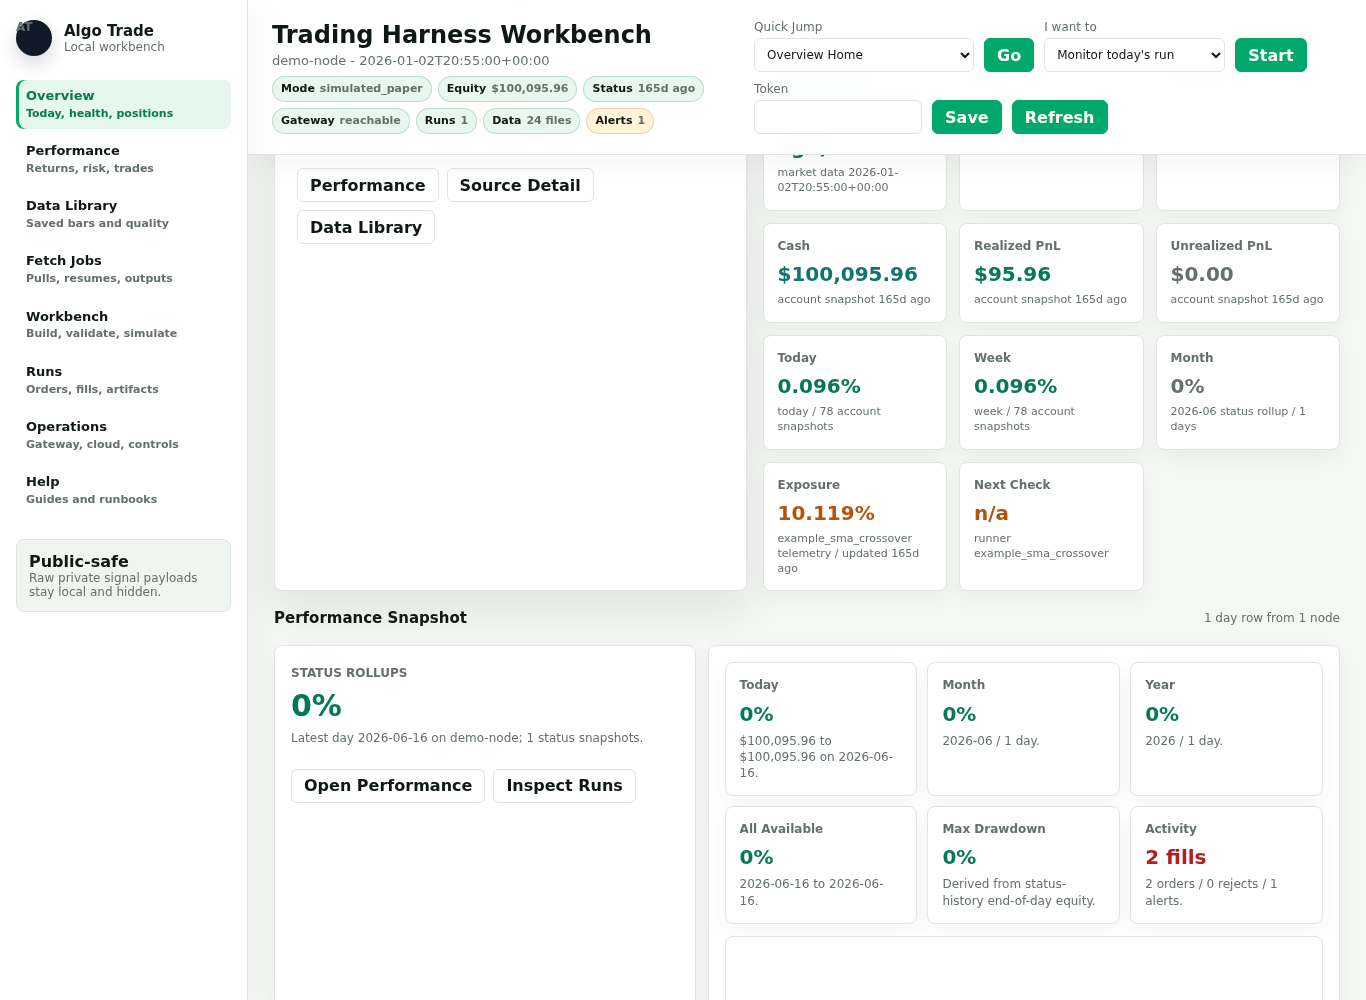
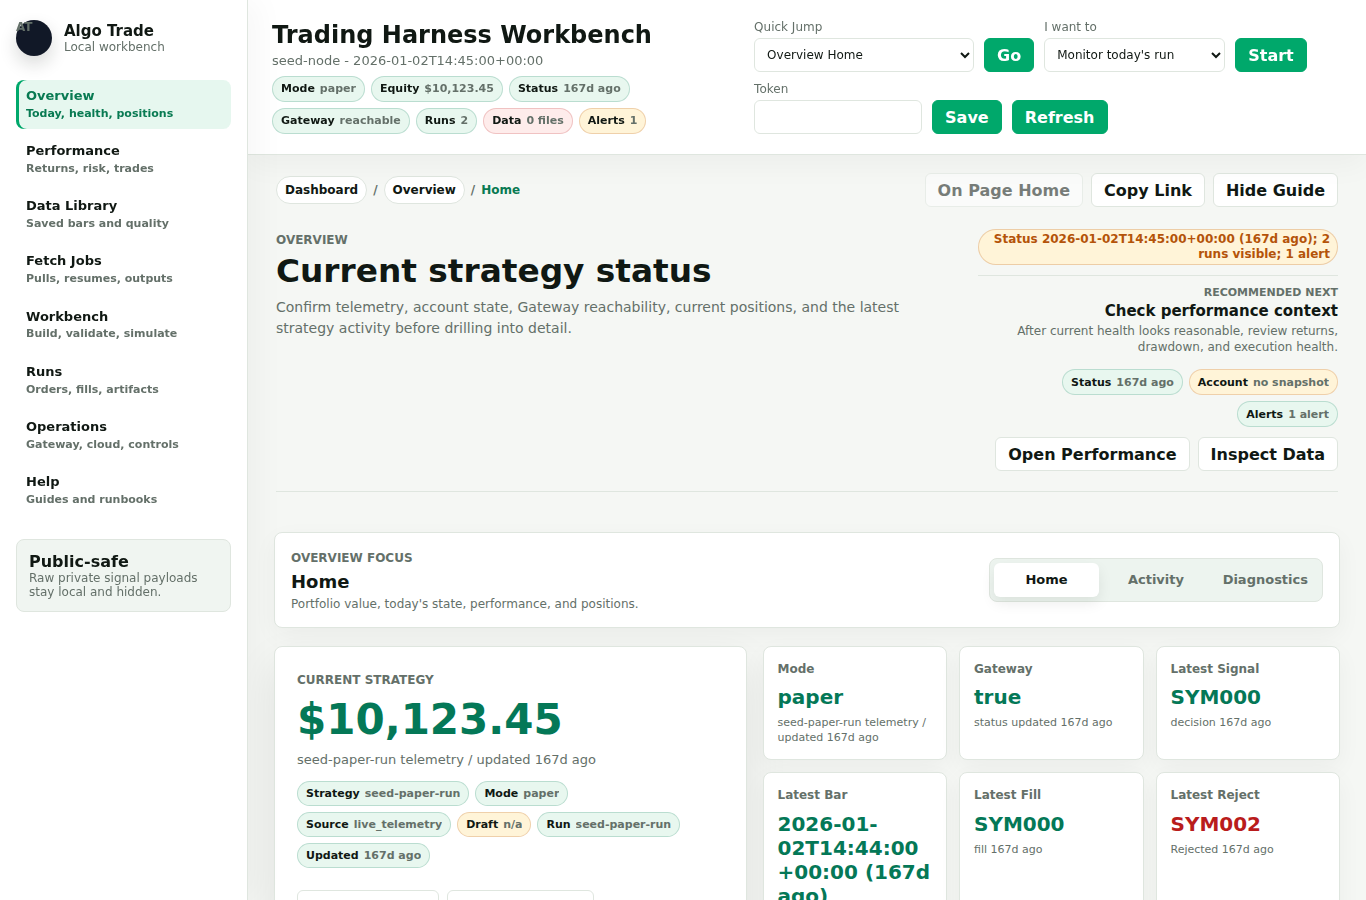
Embed dashboard screenshots in public docs

diff --git a/tests/test_export_public_repo.py b/tests/test_export_public_repo.py
@@ -55,6 +55,11 @@ def test_export_public_repo_preserves_git_metadata_on_force(tmp_path: Path):
     assert (dest / "ops" / "cloud" / "sync-command-audit.example.sh").exists()
     assert (dest / "docs" / "public_launch_plan.md").exists()
     assert (dest / "docs" / "workbench_backtest_walkthrough.md").exists()
+    assert (dest / "docs" / "images" / "dashboard_overview.png").exists()
+    assert (dest / "docs" / "images" / "dashboard_performance.png").exists()
+    assert (dest / "docs" / "images" / "dashboard_workbench.png").exists()
+    assert (dest / "docs" / "images" / "dashboard_workbench_generate_draft.png").exists()
+    assert (dest / "docs" / "images" / "dashboard_runs.png").exists()
 
 
 def test_export_public_repo_requires_force_for_existing_destination(tmp_path: Path):

diff --git a/scripts/export_public_repo.py b/scripts/export_public_repo.py
@@ -33,6 +33,9 @@ COPY_FILES = [
     "docs/images/dashboard_demo.gif",
     "docs/images/dashboard_overview.png",
     "docs/images/dashboard_performance.png",
+    "docs/images/dashboard_runs.png",
+    "docs/images/dashboard_workbench.png",
+    "docs/images/dashboard_workbench_generate_draft.png",
     "scripts/demo_dashboard.py",
     ".github/workflows/ci.yml",
     "docs/configuration_privacy.md",

diff --git a/docs/workbench_backtest_walkthrough.md b/docs/workbench_backtest_walkthrough.md
@@ -34,6 +34,8 @@ The Workbench presents a guided sequence of steps across the top and a config
 form below. The steps are a checklist; the form is where you fill in values.
 You can move through the steps in order or jump straight to the form.
 
+![Workbench builder with seeded demo state](images/dashboard_workbench.png)
+
 ## The Seven-Step Path
 
 ### 1. Choose Data
@@ -74,6 +76,8 @@ executes, so configuration mistakes surface here rather than mid-run. Tick
 **Save draft locally** to persist the generated YAML under the local Workbench
 state directory; a saved, valid draft is required for the Run step.
 
+![Workbench Generate Draft form with selected dataset and date window](images/dashboard_workbench_generate_draft.png)
+
 ### 6. Run Simulation
 
 Run the saved draft directly from the browser. Three actions are available:
@@ -97,6 +101,10 @@ Open them on the **Performance** page (equity curve, drawdown, realized PnL,
 return bars, KPIs) and the **Runs** page (per-run `decisions`, `orders`,
 `fills`, `account`, and `summary` records). Trade rows are paired from
 sanitized fills, so win rate and profit factor reflect real round trips.
+
+![Performance page with seeded simulated-paper results](images/dashboard_performance.png)
+
+![Runs page with artifacts and event context](images/dashboard_runs.png)
 
 ## Config Form Reference
 

diff --git a/docs/public_copy_manifest.md b/docs/public_copy_manifest.md
@@ -65,6 +65,11 @@ pushing this working tree.
   - `docs/configuration_privacy.md`
   - `docs/web_ui_runbook.md`
   - `docs/workbench_backtest_walkthrough.md`
+  - `docs/images/dashboard_overview.png`
+  - `docs/images/dashboard_performance.png`
+  - `docs/images/dashboard_workbench.png`
+  - `docs/images/dashboard_workbench_generate_draft.png`
+  - `docs/images/dashboard_runs.png`
   - `docs/public_framework_roadmap.md`
   - `docs/public_launch_plan.md`
   - operational docs after private paths and strategy names are sanitized.

diff --git a/README.md b/README.md
@@ -18,7 +18,7 @@ In 10 seconds:
 - **Public boundary:** example strategies are intentionally non-viable; tuned
   signals, credentials, account data, and logs stay private.
 
-![Dashboard tour with seeded example telemetry](docs/images/dashboard_demo.gif)
+![Dashboard overview with seeded example telemetry](docs/images/dashboard_overview.png)
 
 ## Try It In 30 Seconds
 